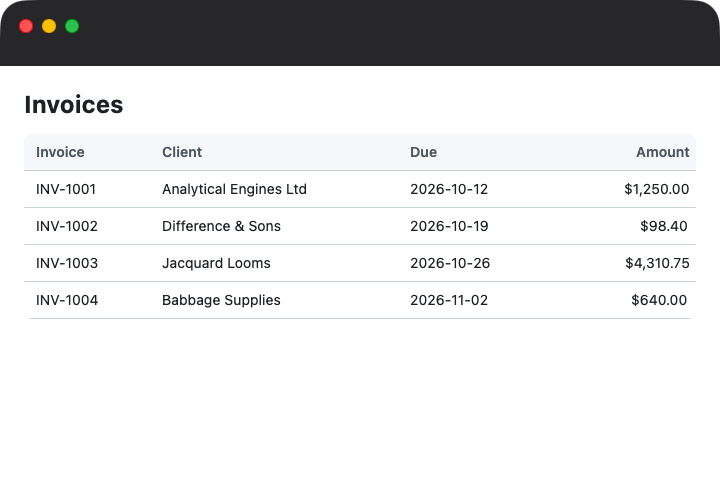
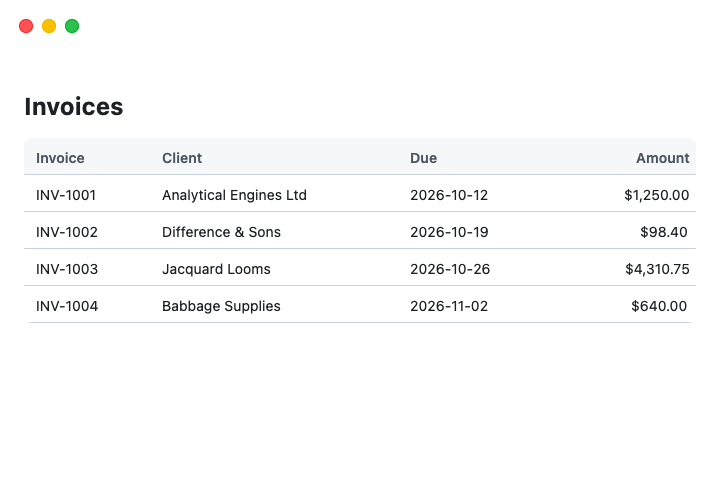
Docs: capture all 17 HTML samples on Web, Android and macOS for v0.0.10
Refresh the 17 macOS window screenshots and capture all 17 HTML samples
on Web (headless Chromium against the v0.0.10 wasmJs bundle) and Android
(Galaxy Z Flip 4 SM-F721N on compose-rust v0.0.10), and document the
capture steps and remaining target differences in
experiments/html-samples/README.md.

Refs #179

Changed region(s): [[0.0306, 0.3125, 0.9778, 0.6875], [0.0, 0.0, 1.0, 0.1562], [0.0306, 0.1875, 0.1833, 0.25]]

diff --git a/experiments/html-samples/README.md b/experiments/html-samples/README.md
@@ -3,9 +3,11 @@
 What each HTML sample in `samples/` looks like in a dioxus-compose window on macOS, and what
 the same HTML and CSS look like in Chromium, which is the reference for an HTML page.
 
-- `macos/<sample>.png`: the sample's window after the 2026-11-13 HTML fixes (integration of #194-#212), and `macos-before/<sample>.png` the same window before them (#181). Both are (`cargo run -p sample-html-<sample>`), debug
-  build, Apple Silicon, scale 1, compose-rust v0.0.6. The top 66 pixels are the window's
-  title band, so the page starts at y = 66.
+- `macos/<sample>.png`: the sample's window after the 2026-11-15 HTML and renderer updates
+  (integration of #194-#252 on compose-rust v0.0.10), and `macos-before/<sample>.png` the
+  same window before them (#181). Both are (`cargo run -p sample-html-<sample>`), debug
+  build, Apple Silicon, scale 1. The top 66 pixels are the window's title band, so the page
+  starts at y = 66.
 - `chromium/<sample>.html`: the sample's first render serialised as HTML, with its
   stylesheet in `<head>`. `tools/dump.rs` writes it from an `HtmlDom`.
 - `chromium/<sample>.png`: that file in headless Chromium (playwright's
@@ -26,28 +28,33 @@ The differences between the two are tracked from issue #179.
 
 ## The other targets
 
-Captured 2026-11-13 against compose-rust v0.0.6, from the samples as they are on develop
-after #181, before any of the fixes tracked from #179.
-
 - `linux/<sample>.png`: the whole 1440x900 Xvfb screen of a Docker container (the
   `ember-linux-gui` image, arm64, openbox, Mesa software GL), release build linked
-  against the published `linux-arm64` static renderer. Openbox draws no title bar, so the
-  window is exactly the size the sample asks for.
+  against the published `linux-arm64` static renderer (captured 2026-11-13 against
+  compose-rust v0.0.6). Openbox draws no title bar, so the window is exactly the size the
+  sample asks for.
 - `windows/<sample>.png`: the UTM window of a Windows 11 arm VM. The sample is an x64
   release build, cross-compiled on the Mac with `cargo xwin` against the published
-  `windows-x64` renderer, running under x64 emulation with WARP (`DXC_D3D12_WARP=1`),
-  started through a scheduled task `/IT /RU ember` so it opens on the desktop. Windows
-  taller than the VM's screen run off its top.
-- `android/<sample>.png`: a Galaxy Z Flip 4 (SM-F721N), main display, `dx build
-  --platform android --release` with NDK 27.1. Only hello, dashboard and settings.
-- `web/hello.png`: headless Chromium (chrome-headless-shell 1248) at 800x600. The page is
-  the v0.0.6 `samples-web` bundle from compose-rust's Samples test run 43264492969, with
-  its `compose_rust_host.wasm` replaced by `sample_html_hello.wasm` (built for
+  `windows-x64` renderer (captured 2026-11-13 against compose-rust v0.0.6), running under
+  x64 emulation with WARP (`DXC_D3D12_WARP=1`), started through a scheduled task
+  `/IT /RU ember` so it opens on the desktop. Windows taller than the VM's screen run off
+  its top.
+- `android/<sample>.png`: all 17 samples on a Galaxy Z Flip 4 (SM-F721N), main display
+  (1080x2640), captured 2026-11-15 against compose-rust v0.0.10. Each sample's `cdylib`
+  (`cargo build --target aarch64-linux-android --release --lib -p sample-html-<sample>`)
+  is packaged into the `samples-android` APK as `lib/arm64-v8a/libmain.so`, signed with
+  the Android debug keystore, launched with `am start -S -W`, and photographed with
+  `screencap -p`.
+- `web/<sample>.png`: all 17 samples in headless Chromium (chrome-headless-shell 1248) at
+  each sample's window size, captured 2026-11-15 against compose-rust v0.0.10. Each page
+  uses the v0.0.10 `samples-web` bundle (`renderer/web/build/dist/wasmJs/productionExecutable`
+  from compose-rust tag `v0.0.10`, which streams and compiles `compose_rust_host.wasm` via
+  `WebAssembly.instantiateStreaming` without needing special Chromium flags) with its
+  `compose_rust_host.wasm` replaced by `sample_html_<sample>.wasm` (built for
   `wasm32-unknown-unknown` with `--import-memory`, `--global-base=4194304`,
-  `--initial-memory=8388608`, `--no-stack-first`). It only starts with
-  `--enable-features=WebAssemblyUnlimitedSyncCompilation`, because the Host module is
-  13.5MB and the loader instantiates it synchronously (compose-rust#565).
+  `--initial-memory=16777216`, `--no-stack-first`).
 
 What differs between targets is tracked from #179: on Windows weight 600 at 28px
-(compose-rust#551), on the web bold drawn regular (compose-rust#566), and the form fields
-drawn in each platform's design system (#197, compose-rust#519).
+(compose-rust#551), and on Web `web/table.png` omits the `th` and `td` text runs inside
+the `.table-wrap` horizontal `ScrollRow` while drawing the `Invoices` heading, header fill
+and row borders.
